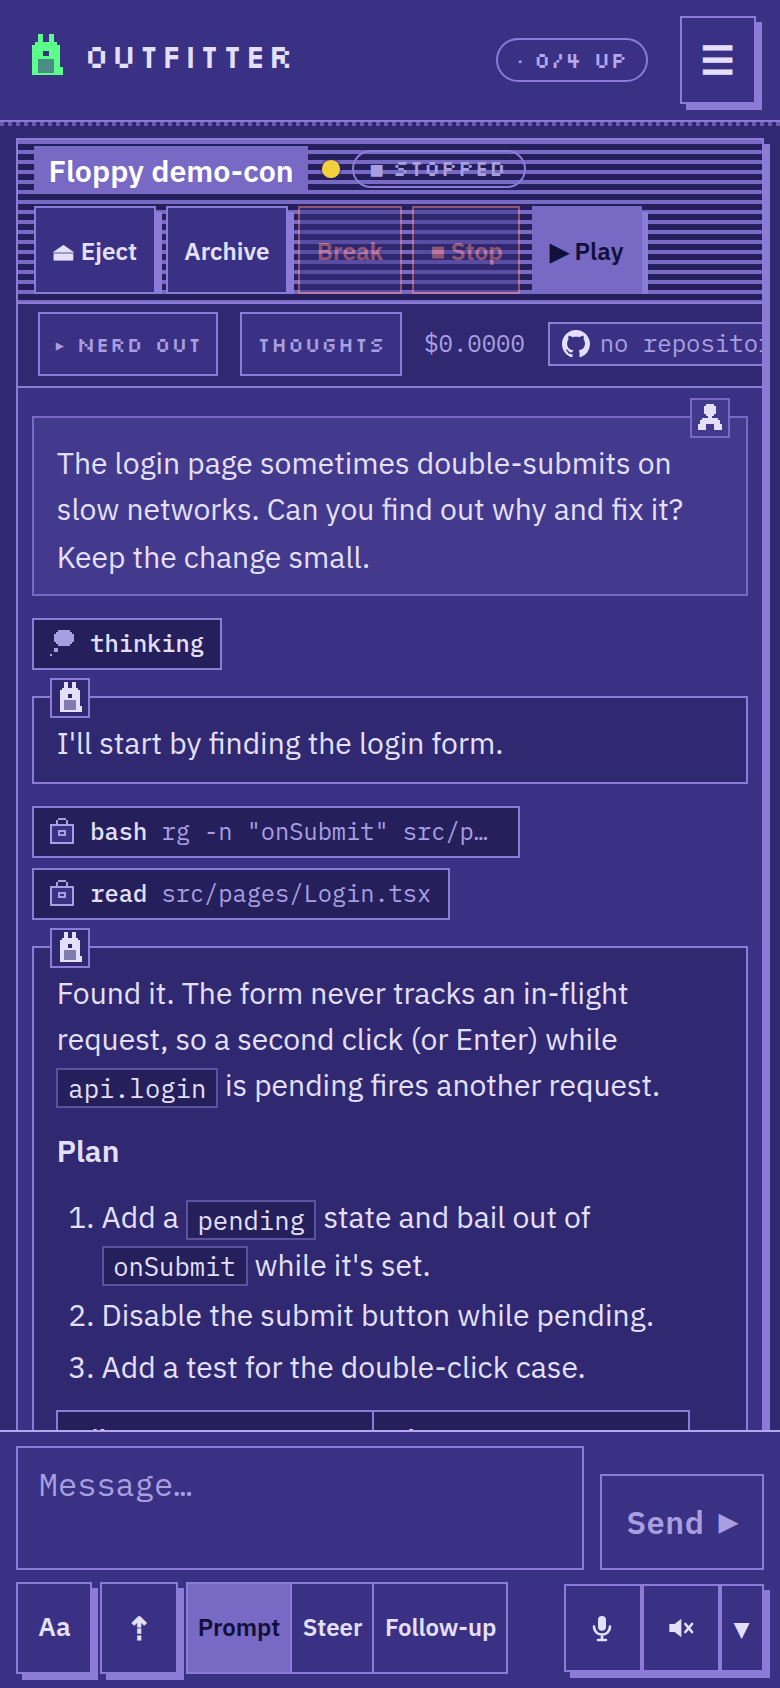
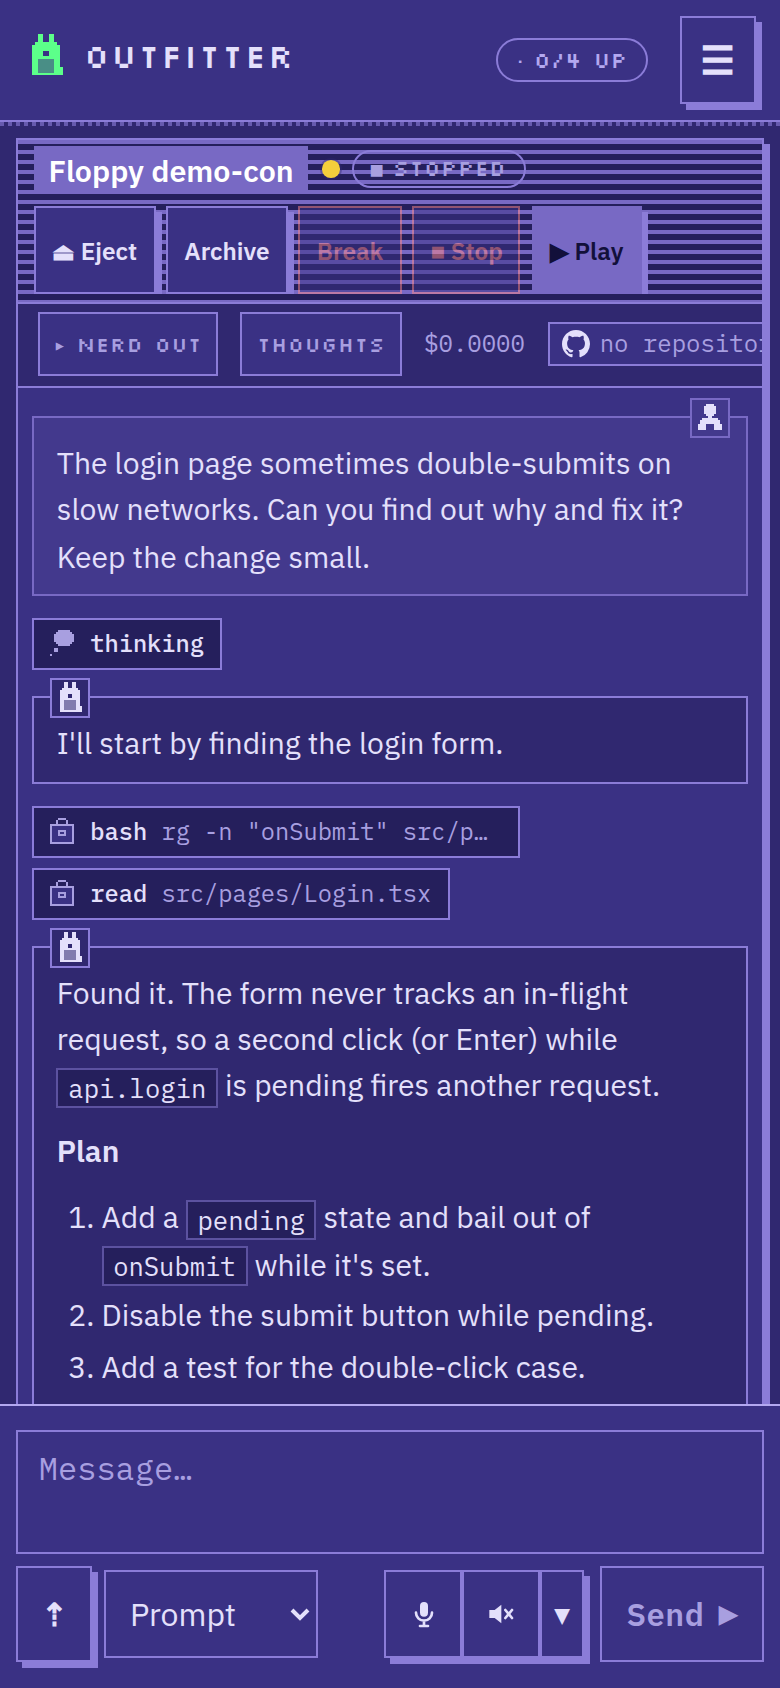
Outfitter web: compact send-mode picker on phones, full-width editor
On phones the Prompt / Steer / Follow-up segmented control took most of the
row under the editor, which pushed Send up beside the message box. It is now
one small native <select> with the short labels (the phone's own picker
sheet), Aa and the formatting toolbar are hidden on phones, and the composer
uses the desktop arrangement everywhere: full-width editor, Send closing the
controls row bottom-right. Fits at 360px with room to spare, so the 374px
squeeze rules are gone.

Claude-Session: https://claude.ai/code/session_012PhBCgpu9D94pRDfncNMV9

diff --git a/outfitter/packages/web/src/styles/mobile.css b/outfitter/packages/web/src/styles/mobile.css
@@ -29,14 +29,12 @@ a,
   }
 }
 
-/* Composer.tsx renders both a <select> (desktop) and a segmented button group (phones) for the
- * send mode, so CSS alone decides which one shows. Base/hidden state lives here, above every
- * media query that might turn it on, so the max-width:700px override below wins on source order
- * (both rules target the same single-class selector, so specificity is tied). */
-.composer-mode-buttons {
+/* Composer.tsx renders two send-mode <select>s: full labels (desktop) and short labels (phones),
+ * so CSS alone decides which one shows. Base/hidden state lives here, above every media query that
+ * might turn it on, so the max-width:700px override below wins on source order (both rules target
+ * the same single-class selector, so specificity is tied). */
+.composer-mode-compact {
   display: none;
-  border: 1px solid var(--border);
-  overflow: hidden;
 }
 
 /* A comfortable minimum tap target everywhere, not just at phone width -- no hover-only
@@ -474,17 +472,16 @@ select {
     overscroll-behavior: contain;
   }
 
-  /* Aa, the size toggle, send mode and voice share the row under the editor: tighter gaps and
-   * segment padding keep "Follow-up" whole at 390px. */
   .composer-controls {
-    gap: 0.25rem;
+    gap: 0.35rem;
   }
 
-  .composer-controls .composer-mode-buttons button {
-    padding-left: 0.32rem;
-    padding-right: 0.32rem;
-    font-size: 0.75rem;
-    white-space: nowrap;
+  /* Markdown formatting by toolbar isn't how anyone writes on a phone keyboard: Aa and its
+   * toolbar go, and the editor (still highlighting Markdown as you type) gets the room. */
+  .composer-controls .md-tools-toggle,
+  .md-toolbar,
+  .md-toolbar.open {
+    display: none;
   }
 
   /* On a phone the editor starts at two lines (the keyboard takes half the screen already) and
@@ -500,35 +497,27 @@ select {
     max-height: 55svh;
   }
 
-  /* Send beside the editor, at its bottom edge (by the thumb); the controls row below keeps the
-   * full width for Aa, the size toggle, send mode and voice. */
-  .composer {
-    grid-template-areas:
-      "status status"
-      "editor send"
-      "controls controls"
-      "note note";
-  }
-
-  .composer > .send-wrap {
-    align-self: end;
-  }
-
+  /* Same arrangement as the desktop: the editor spans the full width and Send closes the row under
+   * it, in the bottom-right corner by the thumb. */
   .send-button {
     min-width: 4.75rem;
     min-height: 48px;
     padding: 0.5rem 0.75rem;
   }
 
-  /* The <select> truncates its own selected-option text below ~140px ("Send (queued i...") --
-   * swap it for a compact segmented control of short labels (Composer.tsx renders both; CSS
-   * picks one per breakpoint) rather than trying to shrink the select further. */
+  /* The full-label <select> truncates itself below ~140px ("Prompt (queued i..."), and a
+   * three-button segmented control took most of the row. One small native picker with the short
+   * labels (Prompt / Steer / Follow-up) opens the phone's own selection sheet instead. */
   .composer-mode-select {
     display: none;
   }
 
-  .composer-mode-buttons {
-    display: flex;
+  .composer-mode-compact {
+    display: block;
+    min-width: 0;
+    max-width: 8.5rem;
+    padding-left: 0.5rem;
+    padding-right: 0.3rem;
   }
 
   /* Collapsed thinking row (EntryItem.tsx): the desktop <details> gives way to an icon+count chip
@@ -563,29 +552,6 @@ select {
   .thinking-chip[aria-expanded="true"] + .thinking-chip-body {
     display: block;
   }
-}
-
-/* ---------- composer mode: <select> on desktop, segmented control on phones ---------- */
-/* Base (hidden) state lives near the top of this file; the max-width:700px block above turns it
- * on. This section is visual styling only. */
-
-.composer-mode-buttons button {
-  box-shadow: none;
-  border: none;
-  border-right: 1px solid var(--border);
-  background: var(--bg-elevated);
-  font-size: 0.78rem;
-  padding: 0.42rem 0.55rem;
-  border-radius: 0;
-}
-
-.composer-mode-buttons button:last-child {
-  border-right: none;
-}
-
-.composer-mode-buttons button.active {
-  background: var(--accent);
-  color: var(--accent-contrast);
 }
 
 /* ---------- dialogs: full-height sheets on mobile ---------- */
@@ -643,17 +609,5 @@ select {
   .app-main {
     max-width: 100%;
     padding: 1rem;
-  }
-}
-
-/* Small Android phones (360px): a few more pixels out of the composer's control row. */
-@media (max-width: 374px) {
-  .composer-controls {
-    gap: 0.2rem;
-  }
-
-  .composer-controls .composer-mode-buttons button {
-    padding-left: 0.22rem;
-    padding-right: 0.22rem;
   }
 }

diff --git a/outfitter/packages/web/src/components/Composer.tsx b/outfitter/packages/web/src/components/Composer.tsx
@@ -43,8 +43,8 @@ type Behavior = "" | "steer" | "followUp";
 const NO_ENTRIES: PiEntry[] = [];
 
 const MODES: Array<{ value: Behavior; label: string; short: string }> = [
-  // Short label "Prompt", not "Send": on phones the segmented control sits beside the Send button,
-  // and two buttons both reading "Send" left it unclear which one sends.
+  // Short label "Prompt", not "Send": on phones the compact picker sits in the row with the Send
+  // button, and two controls both reading "Send" would leave it unclear which one sends.
   { value: "", label: "Prompt (queued if idle)", short: "Prompt" },
   { value: "steer", label: "Steer", short: "Steer" },
   { value: "followUp", label: "Follow-up", short: "Follow-up" },
@@ -52,9 +52,9 @@ const MODES: Array<{ value: Behavior; label: string; short: string }> = [
 
 /** Send/steer/follow-up composer. "Send" queues a plain prompt (the API wakes a run if none is
  * running); "steer" and "follow-up" set `behavior` for a currently-running run (protocol.md's
- * `prompt.behavior`). The mode picker is a `<select>` on desktop and a compact segmented control
- * on phones (styles/mobile.css toggles which one is visible) -- both drive the same `behavior`
- * state, so nothing about the send logic differs between them. */
+ * `prompt.behavior`). The mode picker is a `<select>` with full labels on desktop and one with the
+ * short labels on phones (styles/mobile.css toggles which one is visible) -- both drive the same
+ * `behavior` state, so nothing about the send logic differs between them. */
 export function Composer({
   onSend,
   disabled,
@@ -314,21 +314,19 @@ export function Composer({
             </option>
           ))}
         </select>
-        <div className="composer-mode-buttons" role="radiogroup" aria-label="Send mode">
+        <select
+          className="composer-mode-compact"
+          value={behavior}
+          onChange={(e) => setBehavior(e.target.value as Behavior)}
+          disabled={disabled}
+          aria-label="Send mode"
+        >
           {MODES.map((m) => (
-            <button
-              key={m.value}
-              type="button"
-              role="radio"
-              aria-checked={behavior === m.value}
-              className={behavior === m.value ? "active" : ""}
-              disabled={disabled}
-              onClick={() => setBehavior(m.value)}
-            >
+            <option key={m.value} value={m.value}>
               {m.short}
-            </button>
+            </option>
           ))}
-        </div>
+        </select>
         <VoiceControl voice={voice} speaker={speaker} />
       </div>
       {(voice.note || speaker.note) && (

diff --git a/outfitter/docs/design/README.md b/outfitter/docs/design/README.md
@@ -108,11 +108,13 @@ conversation first:
 - **Transcript spacing.** Cards have smaller gaps and padding, and the who-marks and rail glyphs
   are slightly smaller. Prose in a message is 0.94rem with a 1.55 line height, a little larger
   than the UI around it.
-- **Composer.** On a desktop the editor spans the full width and **Send** closes the controls row
-  in the bottom-right corner, so no space is trapped beside a tall draft. On a phone Send sits
-  beside the editor at its bottom edge, because the phone controls row has no room for it. Both
-  layouts come from one CSS grid (`grid-template-areas`). Send is the largest control (42px tall
-  on desktop, 48px on touch, at least 7rem wide on desktop, ▶ glyph). With an empty
+- **Composer.** The editor spans the full width, and **Send** closes the controls row under it in
+  the bottom-right corner, on desktop and phone alike, so no space is trapped beside a tall
+  draft. Send is the largest control: 42px tall on desktop, 48px on touch, at least 7rem wide on
+  desktop, with a ▶ glyph. Send mode is a `<select>` with full labels on desktop. On a phone it's
+  a small native picker with the short labels (Prompt / Steer / Follow-up), which replaces the
+  old three-button segmented control. The phone also drops **Aa** and the formatting toolbar; the
+  editor still highlights Markdown as you type. With an empty
   draft it dims its colours rather than its opacity, so the label stays readable. The editor
   starts at three lines and grows to `min(26rem, 50vh)`. The ⇡ toggle next to **Aa** switches to
   a tall editor (`min(22rem, 40vh)` up to 70vh; on phones 34svh up to 55svh). The choice is
